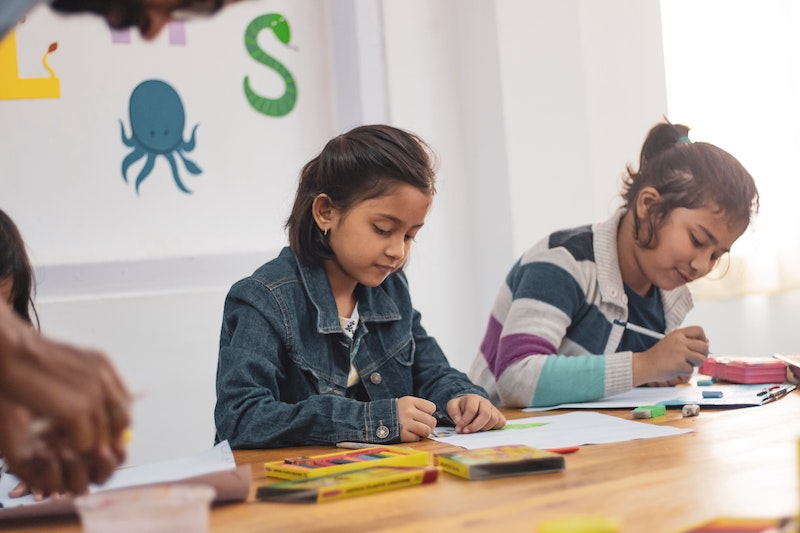
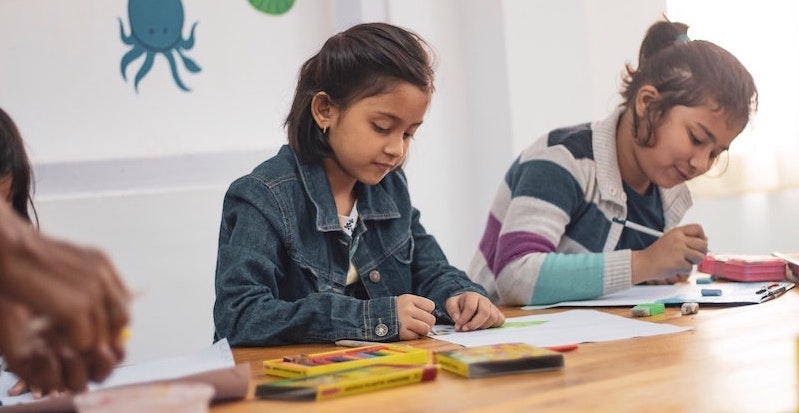
some image resizing and adjustment

diff --git a/index.html b/index.html
@@ -121,7 +121,7 @@
 
 <script>
     var i = 0,
-        images = ['images/codeatuni1.jpg','images/codeatuni2.jpg','images/codeatuni3.jpg','images/codeatuni5.jpg','images/codeatuni6.jpg','images/codeatuni7.jpg','images/codeatuni8.jpg','images/codeatuni9.jpg'],
+        images = ['images/codeatuni11.jpg','images/codeatuni12.jpg','images/codeatuni13.jpg','images/codeatuni14.jpg'],
         speed = 1000,
         moving = true,
         timer = speed;
